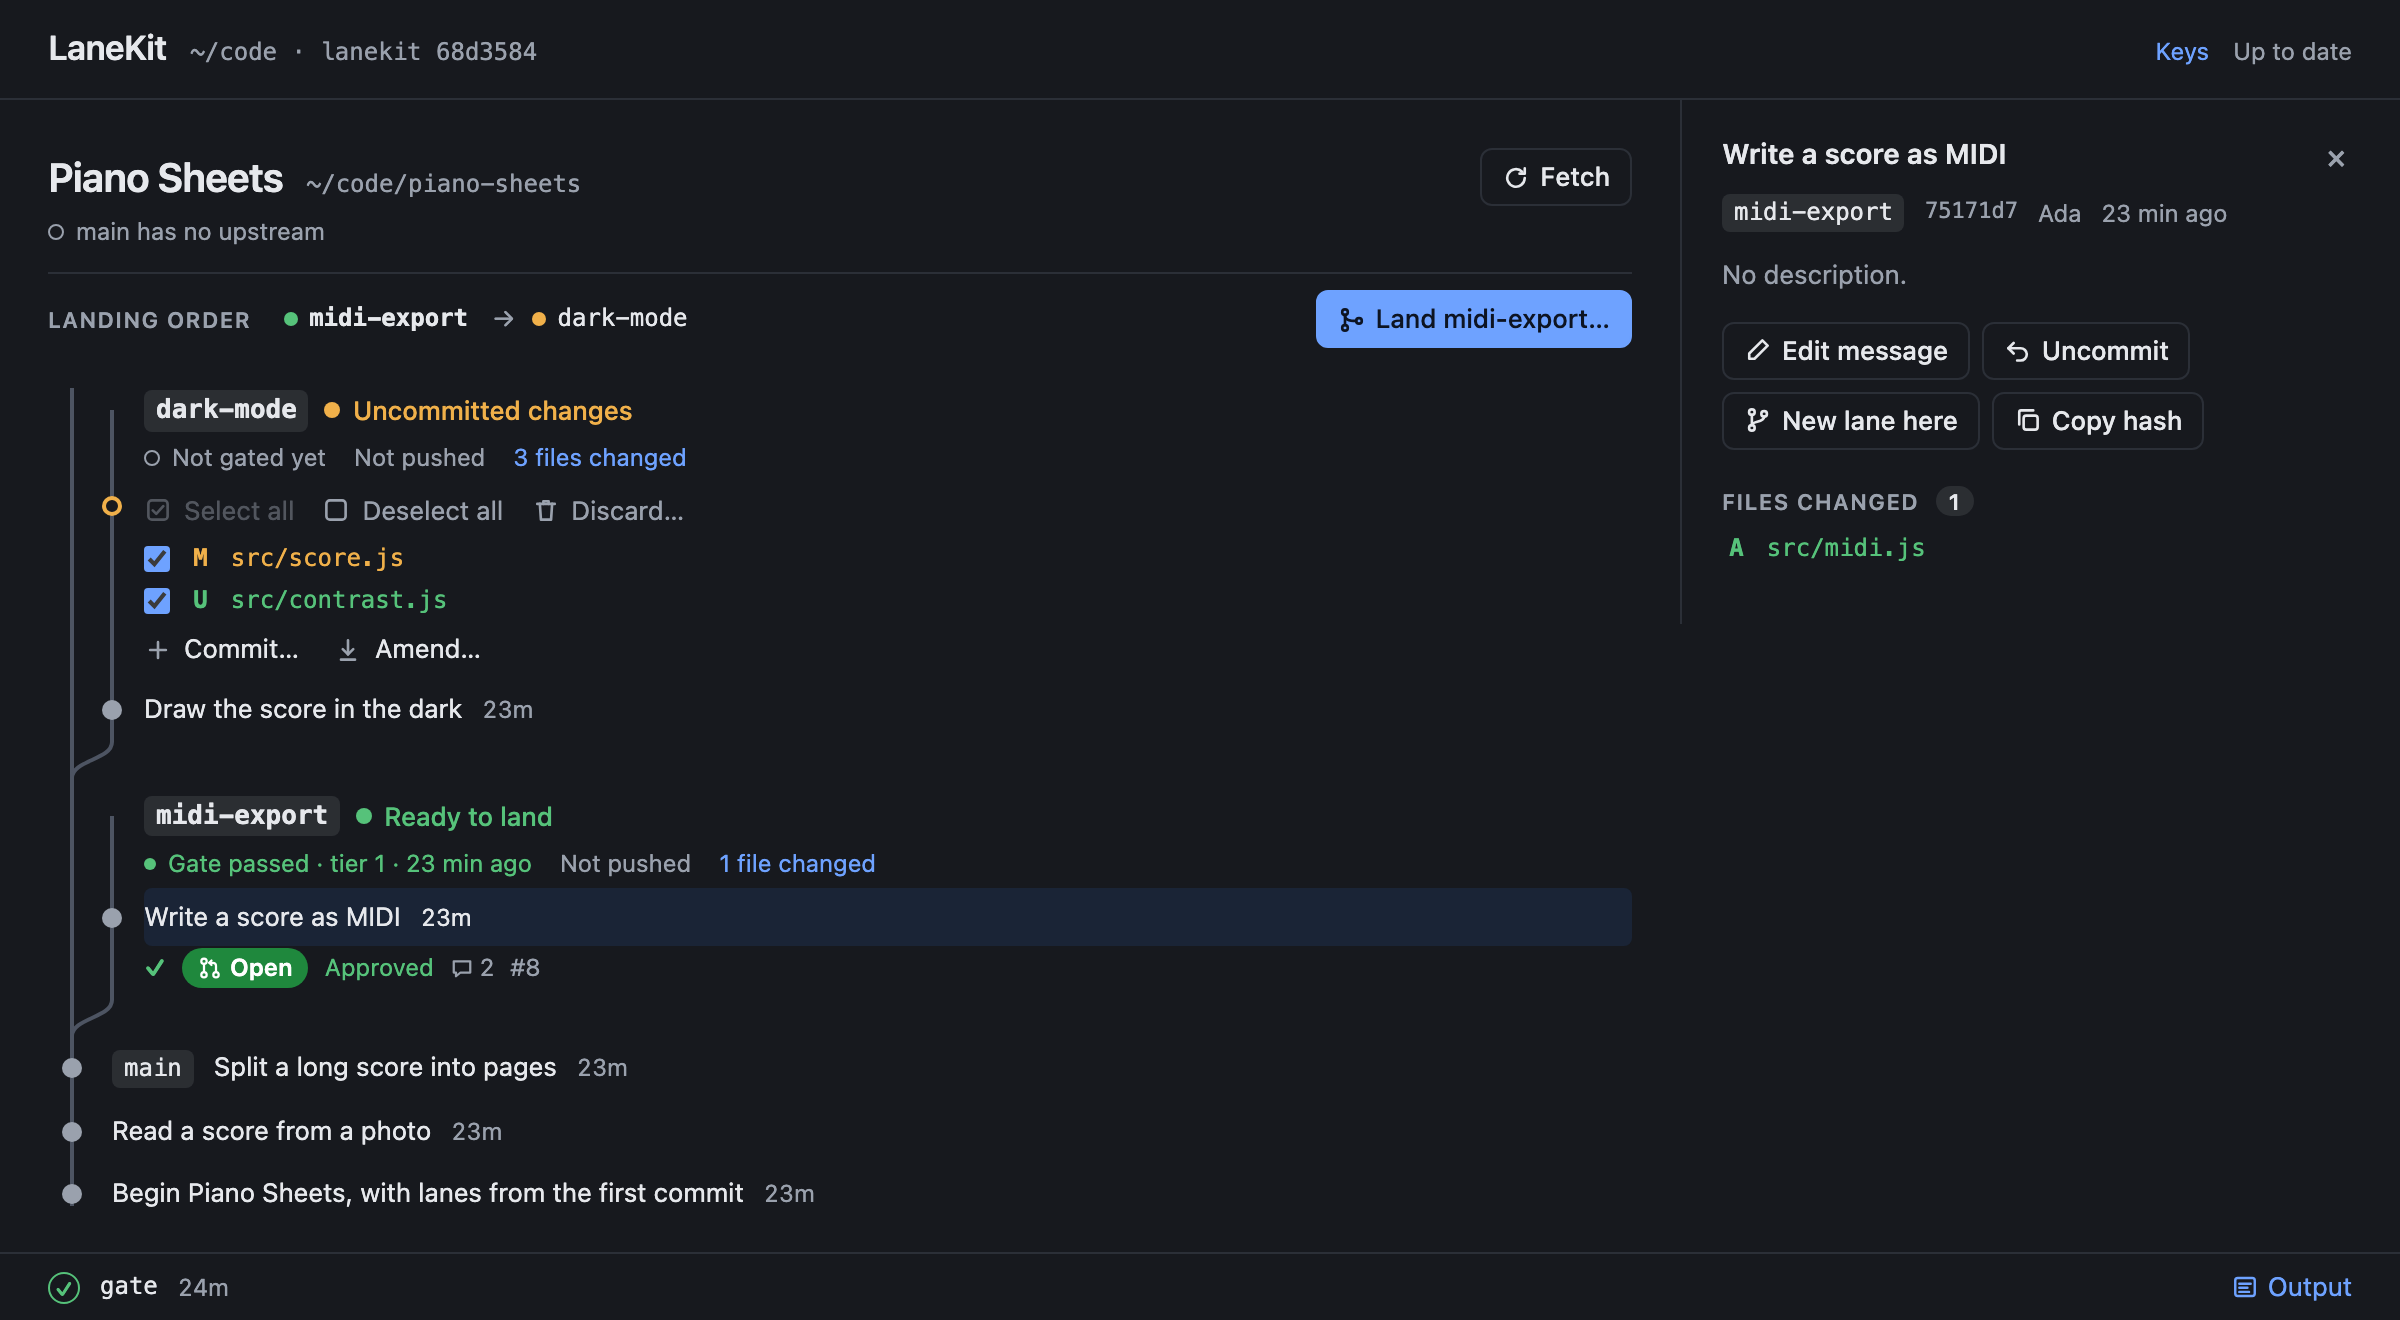
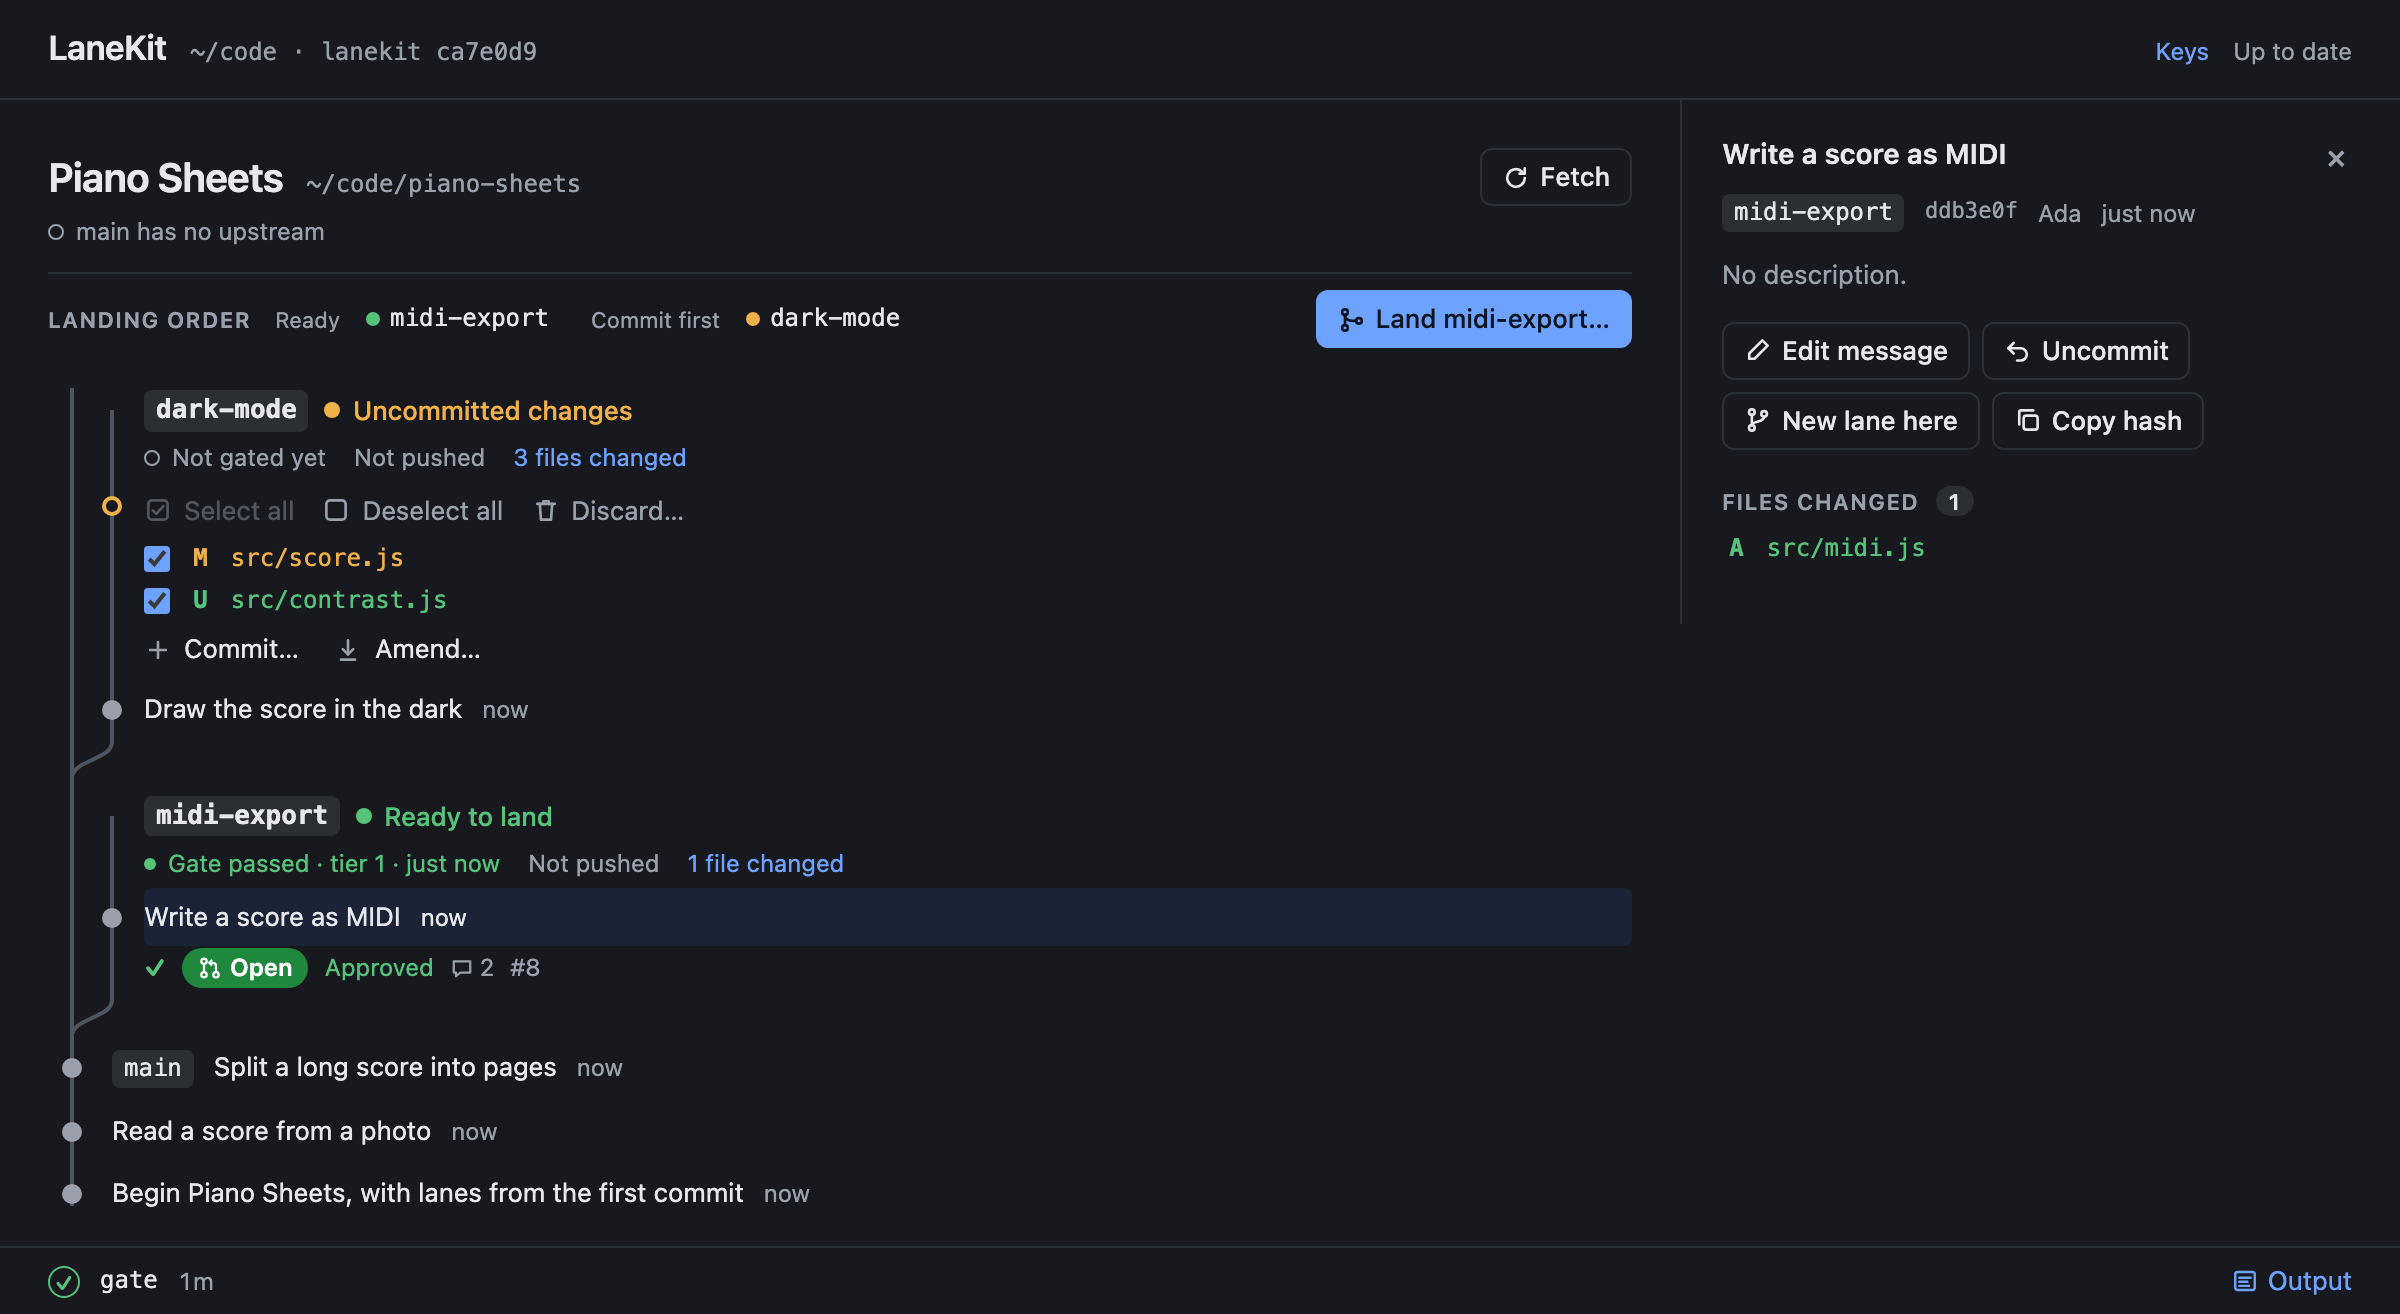
Show the landing order in groups in the README's pictures
Retaken from the same scratch repository: Ready, midi-export; Commit first, dark-mode.

diff --git a/README.md b/README.md
@@ -279,7 +279,7 @@ in the picture. There its clicks drive the editor:
 
 <picture>
   <source media="(prefers-color-scheme: dark)" srcset="docs/images/lanekit-sidebar-dark.png">
-  <img alt="LaneKit in the editor's side bar: the landing order on one line, then dark-mode marked You are here, its line in blue, with its uncommitted files ticked; midi-export ready to land, with its pull request's badges; both curving into main, whose newest commit is under the pointer, offering New lane here and Copy. The command bar along the bottom." src="docs/images/lanekit-sidebar-light.png" width="320" align="right">
+  <img alt="LaneKit in the editor's side bar: the landing order in groups (Ready: midi-export; Commit first: dark-mode), then dark-mode marked You are here, its line in blue, with its uncommitted files ticked; midi-export ready to land, with its pull request's badges; both curving into main, whose newest commit is under the pointer, offering New lane here and Copy. The command bar along the bottom." src="docs/images/lanekit-sidebar-light.png" width="320" align="right">
 </picture>
 
 - a commit opens as the diffs of what it changed; a lane's **Changes** opens everything it
